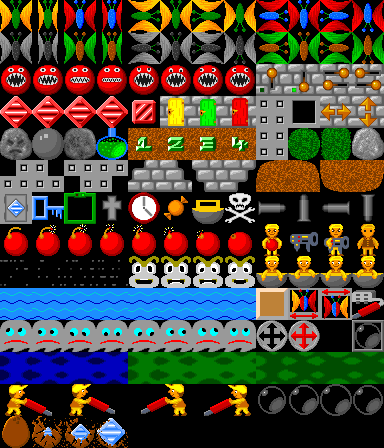
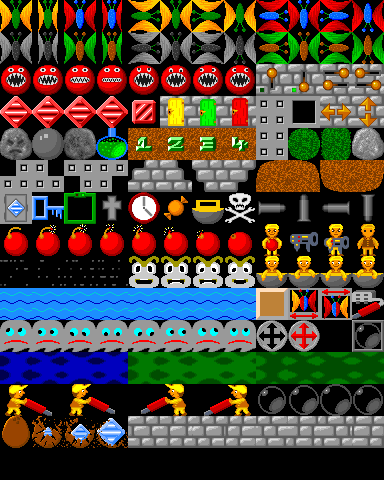
changed graphics for magic wall for native BD engine

diff --git a/src/conf_gfx.c b/src/conf_gfx.c
@@ -442,9 +442,13 @@ struct ConfigInfo image_config[] =
   { "bdx_diamond.falling.EDITOR.ypos",			"3"				},
 
   { "bdx_magic_wall",					UNDEFINED_FILENAME		},
-  { "bdx_magic_wall.clone_from",			"bd_magic_wall"			},
-  { "bdx_magic_wall.active",				UNDEFINED_FILENAME		},
-  { "bdx_magic_wall.active.clone_from",			"bd_magic_wall.active"		},
+  { "bdx_magic_wall.clone_from",			"bdx_wall"			},
+  { "bdx_magic_wall.active",				"RocksBD.png"			},
+  { "bdx_magic_wall.active.xpos",			"4"				},
+  { "bdx_magic_wall.active.ypos",			"13"				},
+  { "bdx_magic_wall.active.frames",			"8"				},
+  { "bdx_magic_wall.active.delay",			"2"				},
+  { "bdx_magic_wall.active.global_sync",		"true"				},
 
   { "bdx_amoeba_1",					"RocksBD.png"			},
   { "bdx_amoeba_1.xpos",				"4"				},
